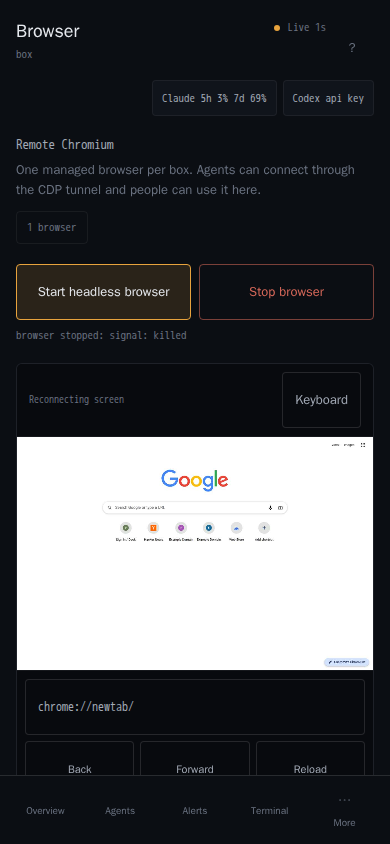
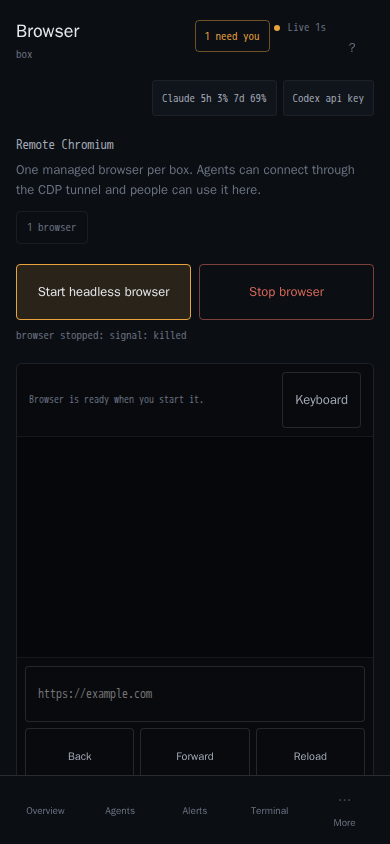
fix(ux): clear stale browser canvas on stop

Changed region(s): [[0.0308, 0.4621, 0.9538, 0.9242], [0.5538, 0.0308, 0.6769, 0.0616], [0.4923, 0.0308, 0.5231, 0.0616]]

diff --git a/views-net.js b/views-net.js
@@ -387,9 +387,10 @@
       const state = await json('/api/browser');
       const status = $n('browser-status');
       const stopButton = container.querySelector('[data-browser="stop"]');
-      if (stopButton) { stopButton.textContent = browserStopArmed ? 'Confirm stop' : 'Stop browser'; stopButton.disabled = !state.running; stopButton.classList.toggle('button-danger', !browserStopArmed); stopButton.classList.toggle('confirm', browserStopArmed); }
-      if (status) status.textContent = state.running ? `PID ${state.pid} / ${Math.round((state.memory || 0) / 1048576)} MB${state.agentDriving ? ' / an agent is driving this browser' : ''}` : (state.error || 'Browser is stopped');
-      if (!state.running) { closeBrowserScreen(); const canvas = $n('browser-canvas'); if (canvas) { canvas.width = 1; canvas.height = 1; canvas.getContext('2d')?.clearRect(0, 0, 1, 1); } pages.innerHTML = '<div class="net-empty">Browser is ready when you start it. Open a page to begin.</div>'; return; }
+      const running = !!state.running && !state.error;
+      if (stopButton) { stopButton.textContent = browserStopArmed ? 'Confirm stop' : 'Stop browser'; stopButton.disabled = !running; stopButton.classList.toggle('button-danger', !browserStopArmed); stopButton.classList.toggle('confirm', browserStopArmed); }
+      if (status) status.textContent = running ? `PID ${state.pid} / ${Math.round((state.memory || 0) / 1048576)} MB${state.agentDriving ? ' / an agent is driving this browser' : ''}` : (state.error || 'Browser is stopped');
+      if (!running) { closeBrowserScreen(); const canvas = $n('browser-canvas'); if (canvas) { canvas.width = 1; canvas.height = 1; canvas.getContext('2d')?.clearRect(0, 0, 1, 1); } pages.innerHTML = '<div class="net-empty">Browser is ready when you start it. Open a page to begin.</div>'; return; }
       if (!state.pages?.length) { pages.innerHTML = '<div class="net-empty">Browser is running. Open a page through CDP to see it here.</div>'; return; }
       const selected = browserScreenPage || state.pages.find((page) => page.type === 'page')?.id;
       if (selected) connectBrowserScreen(selected);
